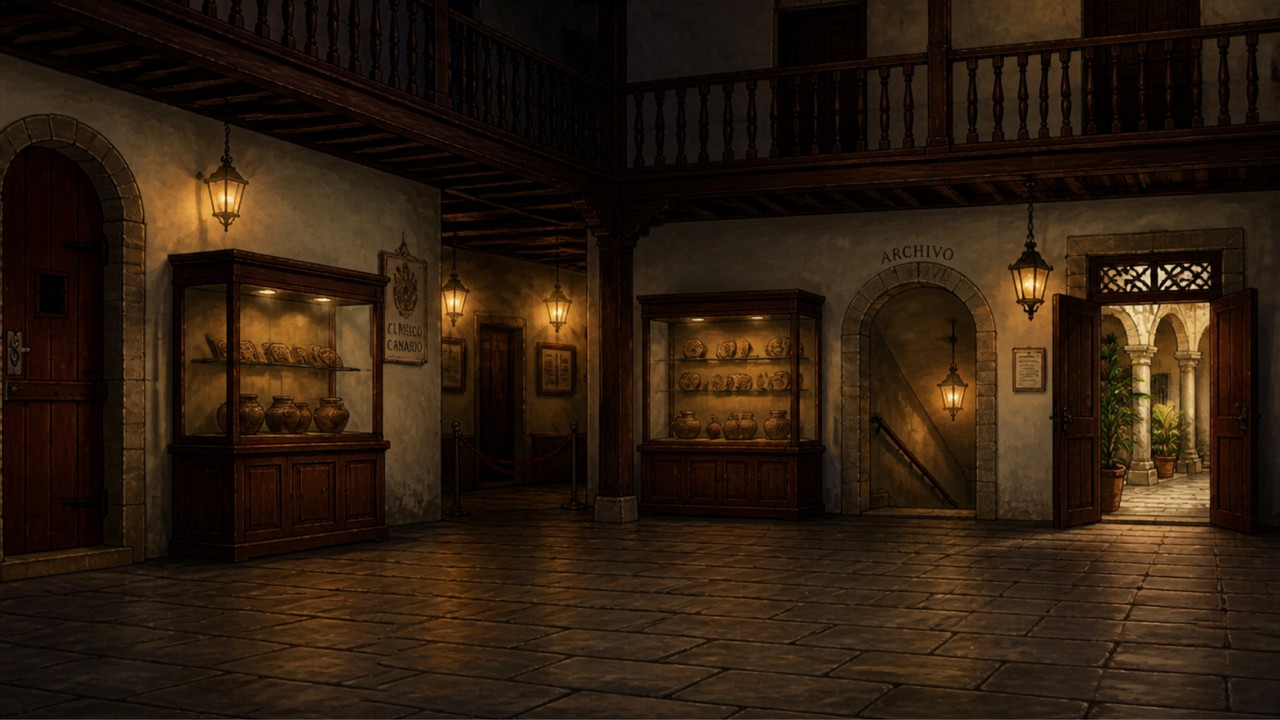
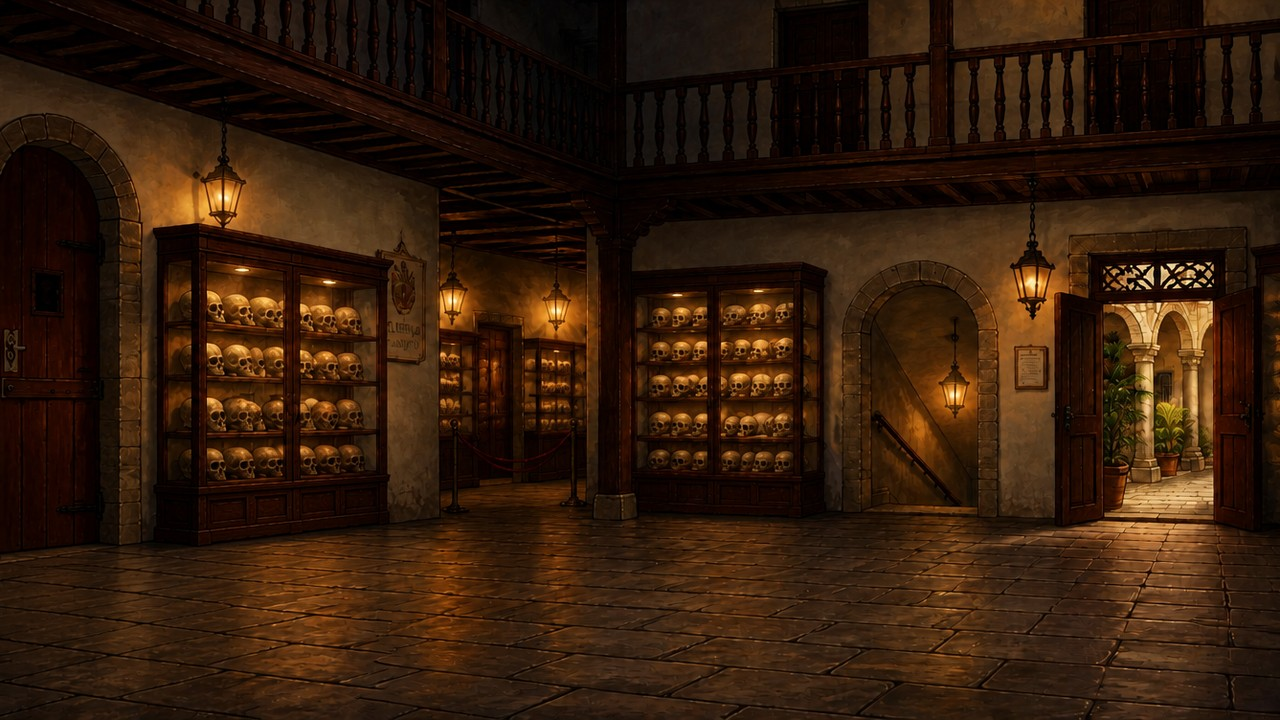
Sequel: real-place repaints in (cave 6, museum skulls, Santa Ana), the museum from the street, the beam moves
Claude-Session: https://claude.ai/code/session_016HTeTNSXEDV8gmJrtKWM3n

diff --git a/sequel/js/story/vasco.js b/sequel/js/story/vasco.js
@@ -104,6 +104,16 @@
   // the seven sockets on the skylight's lip, as painted (I-VI, then the seventh); the beam's landing points
   S.SOCKETS = [[509, 85], [578, 95], [648, 102], [720, 102], [792, 97], [864, 87], [931, 68]];
   S.GREAT = [685, 330]; S.DOOR = [680, 562];
+  // where the beam is drawn: it slides to a new place over BEAM_SLIDE s (eased), and sways a little and shimmers while
+  // it rests, as sunlight through a channel does
+  const BEAM_SLIDE = 2.6; let shown = null, from = null, target = null, slideT = 1, lastT = 0;
+  const beamShown = t => {
+    const to = S.beamPoint(), dt = Math.min(0.1, Math.max(0, t - lastT)); lastT = t;
+    if (!shown) { shown = to.slice(); target = to.slice(); }
+    if (to[0] !== target[0] || to[1] !== target[1]) { from = shown.slice(); target = to.slice(); slideT = 0; }
+    if (slideT < 1) { slideT = Math.min(1, slideT + dt / BEAM_SLIDE); const e = slideT * slideT * (3 - 2 * slideT); shown = [from[0] + (target[0] - from[0]) * e, from[1] + (target[1] - from[1]) * e]; }
+    return [shown[0] + 4 * Math.sin(t * 0.35), shown[1] + 2 * Math.sin(t * 0.27 + 1)];
+  };
   S.beamPoint = () => {
     const f = F();
     if (ch() === 7) return f.lock_closed || f.disc_turned ? S.GREAT : S.DOOR;
@@ -152,8 +162,8 @@
       g.save(); g.beginPath(); g.moveTo(60, 170); g.lineTo(210, 170); g.lineTo(560, 600); g.lineTo(60, 600); g.closePath(); g.clip();
       FX.motes(g, t, 60, 170, 500, 430, 22, '255,232,180'); g.restore();
       S.drawSockets(g);
-      const [x, y] = S.beamPoint(), [sx, sy] = S.SOCKETS[6];
-      g.save(); g.globalAlpha = 0.5; g.fillStyle = 'rgba(255,226,150,1)';
+      const [x, y] = beamShown(t), [sx, sy] = S.SOCKETS[6];
+      g.save(); g.globalAlpha = 0.47 + 0.06 * Math.sin(t * 2.3) * Math.sin(t * 0.9); g.fillStyle = 'rgba(255,226,150,1)';
       g.beginPath(); g.moveTo(sx - 8, sy + 10); g.lineTo(sx + 8, sy + 10); g.lineTo(x + 18, y); g.lineTo(x - 18, y); g.closePath(); g.fill(); g.restore();
       FX.glow(g, x, y, 60, '255,220,140', 0.6);
       for (const [mx, my] of (asV() ? f.v_marks || [] : [])) { g.save(); g.strokeStyle = 'rgba(250,250,250,0.85)'; g.lineWidth = 3; g.beginPath(); g.arc(mx, my, 12, 0, 7); g.stroke(); g.restore(); }
@@ -180,7 +190,9 @@
   S.waitHalfHour = async function () {
     const f = F();
     f.v_time = Math.min(BEAM_AT.length - 1, (f.v_time || 0) + 1);
-    await G.fade(true); await T(400); await G.fade(false);
+    // (the half hour as a time-lapse: the beam slides along the wall to its new place; the user, 2026-10-29: "i don't
+    // think the beam moves")
+    S.sfx('wind_arches', 0.25); await T(BEAM_SLIDE * 1000 + 300);
     G.setClock(['09:00', '09:30', '10:00', '10:30', '11:00'][f.v_time]);
     await say(f.v_time >= BEAM_AT.length - 1 ? 'vasco_wait_last' : 'vasco_wait');
   };

diff --git a/sequel/js/story/tue.js b/sequel/js/story/tue.js
@@ -335,6 +335,18 @@
   };
 
   // ================================================================ EL MUSEO CANARIO: the hall
+  // ================================================================ EL MUSEO CANARIO: the street corner outside
+  // (the user, 2026-10-29: "before alan enters a building, we need to show it from the outside"): the map's pin lands
+  // here, the corner door goes in, and the hall's way out comes back here
+  ROOMS.museum_out = S.room({
+    music: 'santa_ana',
+    name: 'El Museo Canario', bg: 'museum_out', floor: 'stone', ambience: 'street',
+    entries: { default: [200, 660, 'e'], map: [200, 660, 'e'], museum_hall: [632, 580, 's'] },
+    hotspots: [
+      { name: 'El Museo Canario', rect: [575, 330, 115, 195], at: [632, 560], exit: 'museum_hall', entry: 'map' },
+      S.toMap([0, 380, 60, 330], [60, 650]),
+    ],
+  });
   ROOMS.museum_hall = S.room({
     music: 'museum_hall',
     name: 'El Museo Canario', bg: 'museum_hall', floor: 'tile', ambience: 'museum', door: 'door',
@@ -464,7 +476,7 @@
   // leaving the reception: dusk on Las Canteras (the mist); otherwise the map
   S.leaveMuseum = () => {
     if (ch() === 1 && F().met_baute && F().met_carmen && !F().reception_done) { F().reception_done = true; return 'canteras'; }
-    return 'map';
+    return 'museum_out';
   };
   S.talkBauteTue = async function () {
     const f = F();

diff --git a/sequel/js/story/layout.js b/sequel/js/story/layout.js
@@ -64,12 +64,15 @@
         'Stairs up to the hall': [960, 210, 200, 350] },
       npcs: { carmen: [900, 640] },
     },
+    museum_out: {   // (the street corner outside El Museo Canario, 2026-10-29)
+      walk: [[0, 560], [560, 545], [720, 545], [1280, 560], [1280, 716], [0, 716]], scale: [545, 200, 716, 340],
+    },
     santa_ana: {
       walk: [[270, 600], [500, 505], [830, 505], [1000, 560], [1280, 600], [1280, 716], [270, 716]], scale: [510, 150, 716, 380],
       entries: { default: [400, 690, 'e'], map: [400, 690, 'e'], santa_ana_inside: [580, 520, 's'] },
-      spots: { 'Cathedral clock': [555, 185, 45, 45], 'Bronze dogs': [40, 295, 380, 400], 'Timple players': [960, 410, 200, 180], 'Cathedral door': [540, 385, 75, 115],
+      spots: { 'Cathedral clock': [378, 193, 44, 44], 'Bronze dogs': [40, 295, 380, 400], 'Timple players': [960, 410, 200, 180], 'Cathedral door': [540, 385, 75, 115],
         'To the city': [1230, 600, 50, 116] },
-      at: { 'Cathedral clock': [580, 520], 'Cathedral door': [580, 515] },
+      at: { 'Cathedral clock': [520, 520], 'Cathedral door': [580, 515] },   // (the clock on the left tower: the real-place repaint, 2026-10-29)
     },
     belfry: {
       walk: [[200, 600], [1240, 600], [1280, 716], [190, 716]], scale: [590, 320, 716, 390],

diff --git a/sequel/index.html b/sequel/index.html
@@ -94,20 +94,20 @@
 <script src="js/engine/saves.js?v=9fcb9b41"></script>
 <script src="js/engine/tips.js?v=94796f87"></script>
 <script src="js/engine.js?v=95337954"></script>
-<script src="js/story/core.js?v=39bb8180"></script>
+<script src="js/story/core.js?v=ca0ee346"></script>
 <script src="js/story/emotions.js?v=af2ef164"></script>
 <script src="js/story/docs.js?v=56523f4b"></script>
 <script src="js/story/prologue.js?v=a2e05501"></script>
-<script src="js/story/tue.js?v=204cd590"></script>
-<script src="js/story/wed.js?v=5fd4da95"></script>
+<script src="js/story/tue.js?v=0487fcc2"></script>
+<script src="js/story/wed.js?v=50484cd8"></script>
 <script src="js/story/thu.js?v=1f34d390"></script>
 <script src="js/story/fri.js?v=d9a3d07b"></script>
 <script src="js/story/sat.js?v=a4b82641"></script>
-<script src="js/story/vasco.js?v=c3778867"></script>
+<script src="js/story/vasco.js?v=2024c343"></script>
 <script src="js/story/sun.js?v=d8400db3"></script>
 <script src="js/story/mon.js?v=9680e820"></script>
 <script src="js/story/extras.js?v=e73a432c"></script>
-<script src="js/story/layout.js?v=9c557238"></script>
+<script src="js/story/layout.js?v=8dd93d66"></script>
 <script src="js/story/main.js?v=dc15813d"></script>
 </body>
 </html>

diff --git a/sequel/js/story/core.js b/sequel/js/story/core.js
@@ -165,7 +165,8 @@
     PIN('hotel_lobby', 706, 470, 'Hotel Cristina', () => F().ch >= 1 && F().ch <= 6),
     PIN('isleta', 418, 316, 'La Isleta · the fishermen\'s quay', () => (F().ch >= 2 && F().ch <= 4) || (F().ch === 5 && F().fax_read && !F().isleta_flood)),
     PIN('museum_hall', 1156, 238, () => F().ch === 1 ? 'El Museo Canario · the reception, 8 pm' : F().ch === 3 && S.dinnerDue() ? 'El Museo Canario · the fundraising dinner' : 'El Museo Canario · Vegueta',
-      () => (F().ch === 1 && G.has('blazer') && F().called_tue && !F().reception_done) || F().ch === 2 || (F().ch === 3 && !F().caught) || (F().ch === 4 && !F().cave_explained)),
+      () => (F().ch === 1 && G.has('blazer') && F().called_tue && !F().reception_done) || F().ch === 2 || (F().ch === 3 && !F().caught) || (F().ch === 4 && !F().cave_explained),
+      'museum_out'),   // (in through the street door: the outside first)
     PIN('santa_ana', 1166, 218, 'Plaza de Santa Ana · the cathedral', () => F().ch >= 2 && F().ch <= 4),
     PIN('colon', 1138, 225, 'Casa de Colón', () => F().ch === 3 && F().sent_to_colon && !F().inquiry_read),
     PIN('rafa_bar', 1145, 232, 'Vegueta · a bar on Calle Mendizábal', () => F().ch === 4 && F().cave_explained && !F().rafa_night),

diff --git a/sequel/js/story/wed.js b/sequel/js/story/wed.js
@@ -132,7 +132,8 @@
     animBack(g, t) {
       const im = G.bgImage();
       panza(g, t, skyMask('santa_ana', TOP, 360), 0.5);
-      FX.sway(g, im, [850, 0, 260, 100], t * 0.7, 1.3, 0, true); FX.sway(g, im, [815, 110, 160, 118], t * 0.7, 1.1, 1.3, true);
+      FX.sway(g, im, [880, 0, 370, 110], t * 0.7, 1.3, 0, true); FX.sway(g, im, [860, 130, 180, 120], t * 0.7, 1.1, 1.3, true);
+      FX.sway(g, im, [0, 0, 240, 150], t * 0.7, 1.2, 2.1, true);
       FX.birds(g, t, { y0: 40, y1: 170, n: 3, period: 23, color: 'rgba(44,44,50,0.6)', size: 6 });
     },
   });

diff --git a/sequel/docs/HANDOFF.md b/sequel/docs/HANDOFF.md
@@ -616,3 +616,19 @@ the Sea, one glimpse only, no line gives it a voice; the Sea is never funny.
     museum_out_a), sheet `art/review/rooms_real/sheet.jpg`. Nothing in the game yet: the user picks; a chosen repaint
     of an existing room needs its layout.js entry checked (cave6_a keeps the puzzle's positions); the two exteriors are
     new rooms between the map and the interiors.
+60. **Real places in: Cave 6, the museum's skulls, Santa Ana, the museum from the street; the beam moves** (2026-10-29).
+    The user: "cave A, museum A, but remove the mummy cabinets, santa ana A, Museo Canario outside is good. But re-do
+    casa colon, to match it closely to the original". Installed with `scripts/canva_in.py bg <room> file://...`
+    (the old paintings kept in `art/designs/rooms_real/old_*`): `cave6` (cave6_a: every puzzle position still lines up:
+    the seven sockets, the remaining disc, the great triangle, the door in the floor, the salt, the way out),
+    `museum_hall` (museum_hall_a2: take A with the two mummy cases painted out by an edit; the hotspots unchanged),
+    `santa_ana` (santa_ana_a: the clock spot moved to the left tower; the palm sways moved to the new palms).
+    New room `museum_out` (js/story/tue.js, layout.js): the map's museum pin lands there (`go`), the corner door goes
+    into the hall (entry 'map', so the hall behaves as before), and the hall's "Out to Vegueta" comes back to the
+    street (except after Tuesday's reception, still straight to Las Canteras); no new lines. Casa de Colón redone in
+    two takes (colon_out_b: an edit of take A; colon_out_c: fresh), sheet `art/review/rooms_real/colon_bc.jpg`, for
+    the user to pick. Alan's `alan_look_cases` still says "Mummies in goatskin" (voiced): raised with the user.
+    The beam (the user: "i don't think the beam moves"): it only jumped between its five places behind a fade when
+    Vasco waited. Now a wait is a time-lapse: the beam slides along the wall to its next place over 2.6 s (eased), and
+    at rest it sways a few pixels and shimmers. Checked in the running game (?scene=cave, frames during a wait).
+    validate: 0 errors; play.mjs: won in 98 steps.

diff --git a/sequel/art/canva/log.md b/sequel/art/canva/log.md
@@ -73,3 +73,7 @@
 - 2026-10-29 figure `lolo_v2` Canva media MAHZZFccEpk -> art/designs/lolo_v2.png overnight repaint, two views
 - 2026-10-29 figure `guard_v3` Canva media MAHZZrcFTJM -> art/designs/guard_v3.png same-artist redo
 - 2026-10-29 figure `guard_v4` Canva media MAHZa8a30xk -> art/designs/guard_v4.png cast proportions, from the cast sheet only
+- 2026-10-29 bg `cave6` Canva media  -> art/bg/cave6.jpg real Cave 6 repaint (Higgsfield), the user 2026-10-29: cave A
+- 2026-10-29 bg `santa_ana` Canva media  -> art/bg/santa_ana.jpg real Plaza de Santa Ana repaint (Higgsfield), the user 2026-10-29: santa ana A
+- 2026-10-29 bg `museum_hall` Canva media  -> art/bg/museum_hall.jpg Museo Canario hall with the skull cabinets (Higgsfield), the user 2026-10-29: museum A without the mummy cases
+- 2026-10-29 bg `museum_out` Canva media  -> art/bg/museum_out.jpg El Museo Canario from the street (Higgsfield), new room, the user 2026-10-29: 'Museo Canario outside is good'
